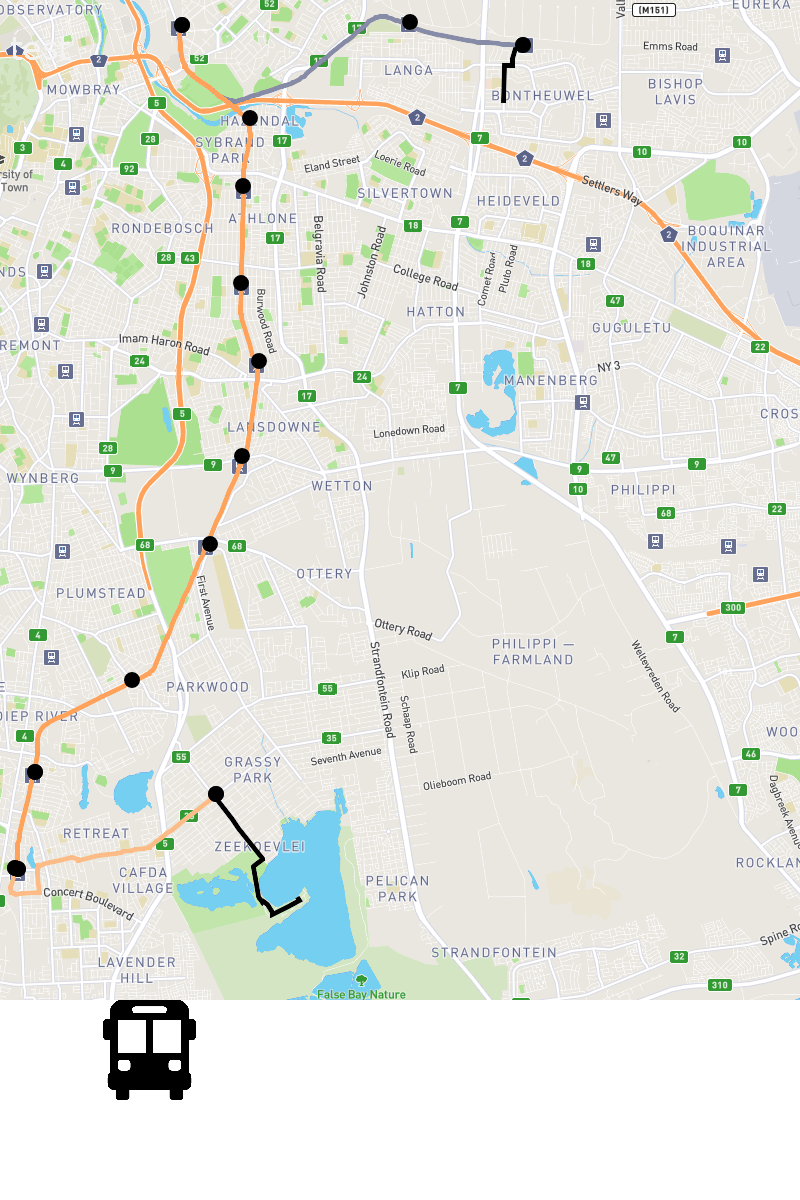
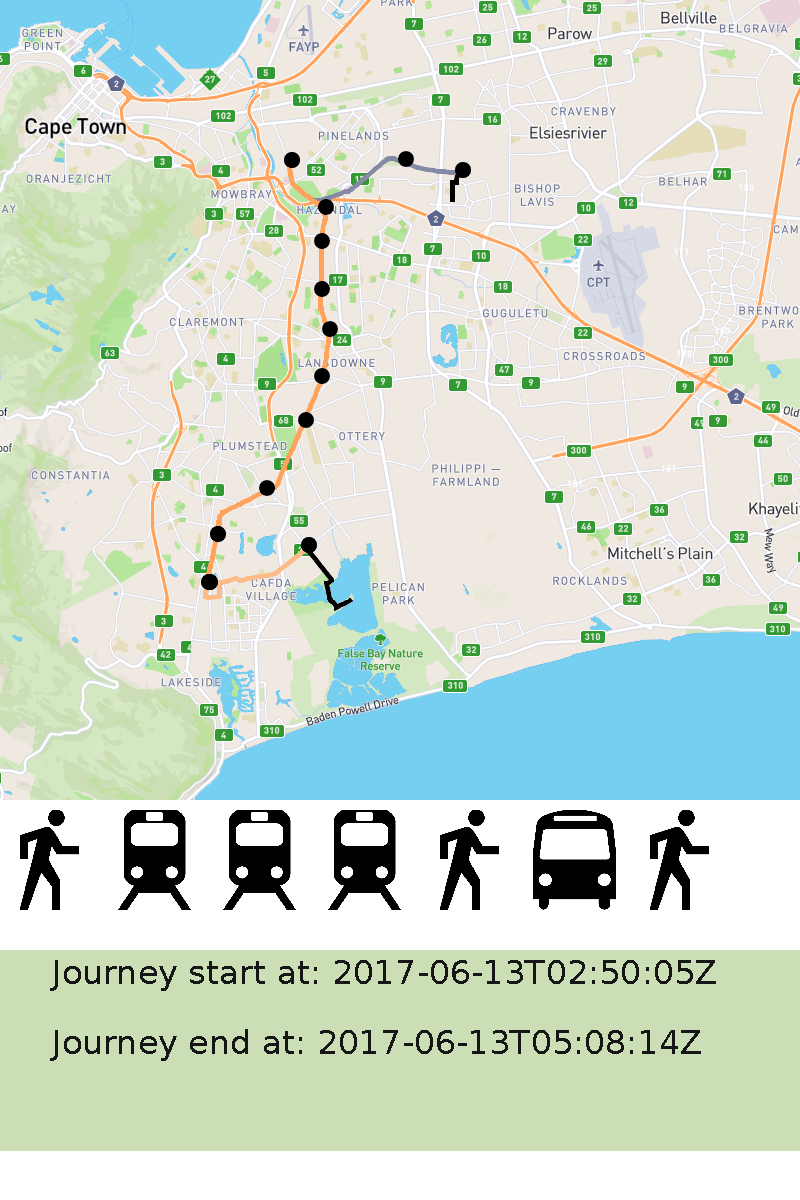
rough image generation complete

diff --git a/lib/ImageGenerator.js b/lib/ImageGenerator.js
@@ -24,19 +24,20 @@ if (typeof (Number.prototype.toDeg) === "undefined") {
 
 class ImageGenerator {
     constructor() {
-        console.log(config)
-        
+        this.busImage = gd.createFromPng('assets/bus.png')
+        this.railImage = gd.createFromPng('assets/rail.png')
+        this.walkingImage = gd.createFromPng('assets/lwalking.png')
+        this.shareTaxiImage = gd.createFromPng('assets/minibustaxi.png')
     }
 
     async createMapImage({ start, end, rawStreets }, journey) {
         return new Promise(async function(journey, resolve, reject) {
-            var path = this.getPathFromGeometies(this.getPointsFromJourney(journey))
-                , center = this.middlePoint(start.lng, start.lat, end.lng, end.lat)
+            var center = this.middlePoint(start.lng, start.lat, end.lng, end.lat)
 
             try {
                 var options = {
                     width: 800,
-                    height: 1000,
+                    height: 800,
                     tileUrl: `https://api.mapbox.com/styles/v1/mapbox/streets-v9/tiles/256/{z}/{x}/{y}?access_token=${config.mapboxApiKey}`
                 };
                 let staticMap = new StaticMaps(options)
@@ -68,40 +69,40 @@ class ImageGenerator {
     }
 
     async generateCard(startEnd, journey) {
-        var png = await this.createMapImage(startEnd, journey)
-        var map = gd.createFromPng(png)
-        var bus = gd.createFromPng('assets/bus.png')
-        var img = gd.createSync(800, 1200)
+        return new Promise(async (resolve, reject) => {
+            var png = await this.createMapImage(startEnd, journey)
+                , map = gd.createFromPng(png)
+                , img = gd.createSync(800, 1200)
+                , modes = this.generateModesView(journey)
 
-        bus.copyResized(img, 100, 1000,0,0, 100, 100, 512, 512)
-        map.copy(img, 0, 0, 0,0, 800, 1000)
+            modes.copy(img, 0, 800, 0, 0, 800, 300)
+            map.copy(img, 0, 0, 0,0, 800, 800)
+            
+            img.colorAllocate(128, 255, 125)
 
-        // Set background color 
-        img.colorAllocate(128, 255, 125);
+            var txtColor = img.colorAllocate(255, 0, 255)
+            var rectColor = img.colorAllocate(0, 255, 0)
+            
+            var fontPath = '/usr/share/fonts/truetype/dejavu/DejaVuSans.ttf'
+            var text = this.generateWayPointText(journey)
 
-        // Set text color 
-        var txtColor = img.colorAllocate(255, 0, 255);
-        
-        // Set full path to font file 
-        var fontPath = '/usr/share/fonts/truetype/dejavu/DejaVuSans.ttf';
-        
-        var text = "test"
-        // Render string in image 
-        img.stringFT(txtColor, fontPath, 24, 0, 10, 60, text);
-        
-        // Write image buffer to disk 
-        // let cardAddress = `generated-images/${journey.id}-output.png`
-        let cardAddress = `generated-images/output.png`
-        img.savePng(cardAddress, 1, function(err) {
-            if(err) {
-                throw err
-            } else {
-                return `generated-images/${journey.id}-output.png`
-            }
-        });
-        
-        // Destroy image to clean memory 
-        img.destroy();
+            img.filledRectangle(0, 950, 800, 1150, rectColor)
+            img.stringFT(txtColor, fontPath, 25, 0, 10, 950, text)
+            
+            let cardAddress = `generated-images/${journey.id}-output.png`
+            //let cardAddress = `generated-images/output.png`
+            resolve(img.pngPtr())
+            img.savePng(cardAddress, 1, function(err) {
+                if(err) {
+                    reject(err)
+                } else {
+                    //resolve(`generated-images/${journey.id}-output.png`)
+                }
+            })
+            
+            // Destroy image to clean memory 
+            img.destroy()
+        })
     }
 
     async generateErrorCard(text) {
@@ -173,16 +174,97 @@ class ImageGenerator {
         
     }
 
-    getPathFromGeometies(geometries) {
-        let path = [];
-        geometries.forEach(geometry => {
-            path.push({
-                color: '0x0000ff',
-                weight: '5',
-                points: [...geometry]
-            })
+    generateModesView(journey) {
+        let itinerary = journey.itineraries[0]
+            , legs = itinerary.legs
+            , images = []
+            , modesView
+
+        legs.forEach(leg => {
+            switch(leg.type) {
+                case "Walking" : {
+                    console.log("Do the walking")
+                    images.push('walking')
+                    break
+                }
+                case "Transit" : {
+                    console.log("here")
+                    switch(leg.line.mode) {
+                        case "Rail" : {
+                            console.log("Do the train")
+                            images.push('rail')
+                            break
+                        }
+                        case "ShareTaxi" : {
+                            console.log("Do the taxi")
+                            images.push('shareTaxi')
+                            break
+                        }
+                        case "Bus" : {
+                            console.log("Do the bus")
+                            images.push('bus')
+                            break
+                        }
+                        default : {
+                            console.log(`Don't understand mode: ${leg.line.mode}`)
+                            break
+                        }
+                    }
+                }
+                default: {
+                    console.log(`A leg type was given that is not understood`)
+                    break
+                }
+            }
         })
-        return path
+        
+        return this.generateImageFromImages(images)
+    }
+    
+    generateImageFromImages(images) {
+        let length = images.length
+            , genImage = gd.createSync(800, 300)
+        console.log(genImage)
+        images.forEach((iimage, index) => {
+            var image
+            console.log(iimage)
+            switch(iimage) {
+                case "bus" : {
+                    image = this.busImage
+                    break
+                }
+                case "rail" : {
+                    image = this.railImage
+                    break
+                }
+                case "walking" : {
+                    console.log("using walking image")
+                    image = this.walkingImage
+                    break
+                }
+                case "shareTaxi" : {
+                    image = this.shareTaxiImage
+                    break
+                }
+                default : {
+                    console.log('using nothing')
+                }
+            }
+            console.log(index)
+            image.copyResized(genImage, (105 * index), 10, 0, 0, 100, 100, 512, 512)
+        })
+        return genImage
+    }
+
+    generateWayPointText(journey) {
+        let itinerary = journey.itineraries[0]
+            , legs = itinerary.legs
+            , lastWayPoints = legs[legs.length -1].waypoints
+        let text = `
+    Journey start at: ${legs[0].waypoints[0].arrivalTime}\n
+    Journey end at: ${lastWayPoints[lastWayPoints.length - 1].arrivalTime}
+        `
+        return text
     }
 
     middlePoint(lat1, lng1, lat2, lng2) {

diff --git a/lib/Client.js b/lib/Client.js
@@ -4,11 +4,12 @@ const Processor = require('./Processor')
     , ImageGenerator = require('./ImageGenerator')
 
 class Client {
-    constructor(processor) {
+    constructor(processor, T) {
         this.rawTweet
         this.processor = processor
         this.errorHandler = new ErrorHandler()
         this.imageGenerator = new ImageGenerator()
+        this.T = T
     }
 
     createClientFromTweet(tweet) {
@@ -21,10 +22,32 @@ class Client {
             let startEnd = await this.processor.processTweet(this.rawTweet.text)
             let journey = await this.processor.makeJourneyRequest(startEnd)
             let tweetpic = await this.imageGenerator.generateCard(startEnd, JSON.parse(journey))
-            console.log(journey)
+            let uploadImageToTwitter = this.uploadImageToTwitter(tweetpic)
+            //console.log(journey)
         } catch (error) {
             this.apologise(error)
         }
+    }
+
+    uploadImageToTwitter(b64content) {
+        this.T.post('media/upload', { media_data: new Buffer(b64content).toString('base64') }, function (err, data, response) {
+            // now we can assign alt text to the media, for use by screen readers and
+            // other text-based presentations and interpreters
+            var mediaIdStr = data.media_id_string
+            var altText = "Small flowers in a planter on a sunny balcony, blossoming."
+            var meta_params = { media_id: mediaIdStr, alt_text: { text: altText } }
+
+            T.post('media/metadata/create', meta_params, function (err, data, response) {
+                if (!err) {
+                // now we can reference the media and post a tweet (media will attach to the tweet)
+                var params = { status: 'loving life #nofilter', media_ids: [mediaIdStr] }
+
+                T.post('statuses/update', params, function (err, data, response) {
+                    console.log(data)
+                })
+                }
+            })
+        })
     }
 
     isReady() {

diff --git a/lib/Dummy.js b/lib/Dummy.js
@@ -6,13 +6,13 @@ const Geocode = require('./Geocode')
     , Resolver = require('./Resolver')
     , Client = require('./Client')
 
-module.exports.startDummy = () => {
+module.exports.startDummy = (T) => {
     var tweet = [ 
         "Bonteheuwel to Cape Town", 
         "Bonteheuwel to Cape Town @TransportMeTo",
         "28 Dissel Road, Bonteheuwel to Grassypark @TransportMeTo"]
         , processor = new Processor()
-        , client = new Client(processor)
+        , client = new Client(processor, T)
         
     async function start () {
         let tweets = await loadTweetsFromFiles()

diff --git a/server.js b/server.js
@@ -14,7 +14,7 @@ const express = require('express')
     , myName = 'TransportMeTo'
 
 console.log(process.version)
-Dummy.startDummy()
+Dummy.startDummy(T)
 
 var stream = T.stream('user', { user: 'tjma2001'})
 
